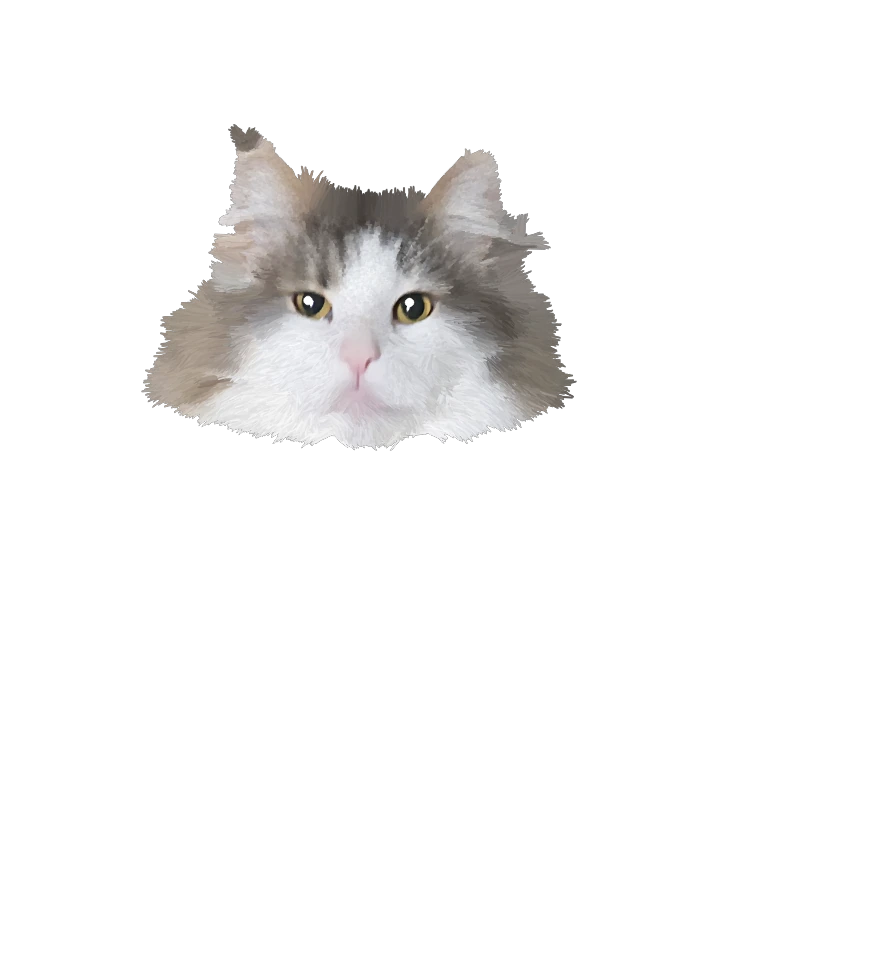
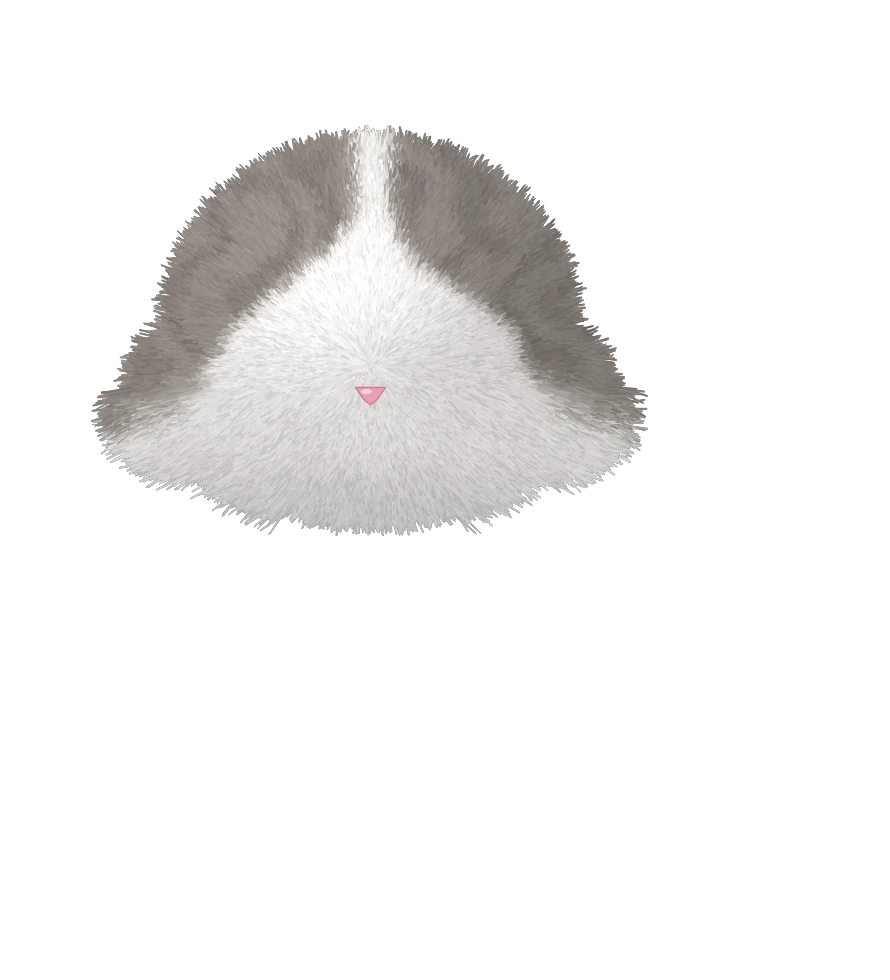
Playground: Ana redesigned from scratch as a 3D-shaded fine-fur character (round head, big amber eyes, tufted ears, plume tail)
Claude-Session: https://claude.ai/code/session_01W4x6f7KtFbhsBZfqVxHVQA

Changed region(s): [[0.091, 0.1224, 0.7281, 0.551]]

diff --git a/william/tpl.html b/william/tpl.html
@@ -712,18 +712,18 @@ XMLHttpRequest.prototype.open = function (m, url, ...rest) { for (const k in MOC
 })();
 // ---------- アナちゃん（試し中・playground だけ）----------
 // 細い毛を 1 本ずつ描いた一枚絵（william/ana/make_ana.py）を、頭・体・しっぽの部品に分けて動かす。William のモデル（Tororo）は使わない
-// 絵の座標（890×980）：足もと (370, 885)、首 (360, 440)、しっぽのつけ根 (560, 705)、目 (312, 306) (414, 308)、口 (360, 390)
+// 絵の座標（890×980）：足もと (370, 890)、首 (370, 480)、しっぽのつけ根 (560, 800)、耳のつけ根 (260, 240) (480, 240)、目 (296, 350) (444, 350)、鼻 (370, 395)
 // 性格は食いしん坊：正解すると ごはんがもらえて もぐもぐ。空のときは ときどき ぺろっ、「ごはん まだ？」
 const ANA = { img: {}, n: 0, blinkAt: 0, lookT: -1e9, lickT: -1e9, nextLick: 0, eatT: -1e9, food: 0, taps: 0, wantT: -1e9, nextWant: 0 };
-if (PLAYGROUND) for (const [k, src] of Object.entries(__ANA__)) { const im = new Image(); im.onload = () => { ANA.img[k] = im; if (++ANA.n === 3) { ANA.blinkAt = performance.now() + 3000; ANA.nextLick = performance.now() + 12000; } }; im.src = src; }
+if (PLAYGROUND) for (const [k, src] of Object.entries(__ANA__)) { const im = new Image(); im.onload = () => { ANA.img[k] = im; if (++ANA.n === 4) { ANA.blinkAt = performance.now() + 3000; ANA.nextLick = performance.now() + 12000; } }; im.src = src; }
 function anaFeed() { if (!PLAYGROUND) return; const t = performance.now(); if (t - ANA.eatT < 5200) { ANA.food = 1; return; } ANA.food = 1; ANA.eatT = t + 700; ANA.lookT = t; }
 function anaSpot() {
 	if (stacked) { const p = IMG_PL.top, q = M(p.x + 70, p.y); return { x: q.x, y: q.y }; }  // スマホ：同じ台の右どなり
 	const p = IMG_PL.floor, q = M(p.x - 20, p.y); return { x: q.x, y: q.y };               // PC：いちばん下の台
 }
-function anaH() { return catH * (stacked ? 1.0 : 1.2); }
+function anaH() { return catH * (stacked ? 1.0 : 1.25); }
 function drawAna(t) {
-	if (ANA.n < 3) return; const I = ANA.img, c = ctx, sp = anaSpot(), h = anaH(), k = h / 790;
+	if (ANA.n < 4) return; const I = ANA.img, c = ctx, sp = anaSpot(), h = anaH(), k = h / 850;
 	let lid = 0, mouth = 0, up = 0, dip = 0, lick = 0;
 	const bk = (t - ANA.blinkAt) / 240; if (bk >= 0 && bk < 1) lid = Math.max(lid, Math.sin(bk * Math.PI)); else if (bk >= 1) ANA.blinkAt = t + 3000 + Math.random() * 4000;
 	const lk = (t - ANA.lookT) / 1600; if (lk >= 0 && lk < 1) { up = Math.sin(lk * Math.PI); lid *= 1 - up; }
@@ -736,27 +736,38 @@ function drawAna(t) {
 	const br = reduce ? 0 : Math.sin(t / 1500), sway = reduce ? 0 : Math.sin(t / 4300), chew = reduce ? 0 : Math.abs(Math.sin(t / 95)) * dip, fast = dip > 0.1 || up > 0.1;
 	c.save(); c.translate(sp.x, sp.y);
 	c.fillStyle = 'rgba(60,30,40,.26)'; c.beginPath(); c.ellipse(h * 0.05, 2, h * 0.42, h * 0.04, 0, 0, Math.PI * 2); c.fill();
-	c.scale(k, k); c.translate(-370, -885);
+	c.scale(k, k); c.translate(-370, -890);
 	// しっぽ（つけ根を中心に ふる。ごはんのときは 速く）
-	c.save(); c.translate(560, 705); c.rotate(reduce ? 0 : Math.sin(t / (fast ? 240 : 1400)) * (fast ? 0.1 : 0.05)); c.drawImage(I.tail, -560, -705); c.restore();
+	c.save(); c.translate(560, 800); c.rotate(reduce ? 0 : Math.sin(t / (fast ? 240 : 1400)) * (fast ? 0.1 : 0.05)); c.drawImage(I.tail, -560, -800); c.restore();
 	// 体（足もとを中心に 呼吸で ふくらむ。食べるときは 少し前へ）
-	c.save(); c.translate(370, 885); c.scale(1 + br * 0.006, 1 + br * 0.01 - dip * 0.03); c.drawImage(I.body, -370, -885); c.restore();
-	// 頭（首を中心に かたむく・上を向く・おさらへ下げる）
-	c.save(); c.translate(360 - dip * 40, 440 - br * 3 - up * 10 + dip * 70 + chew * 5); c.rotate(sway * 0.035 - dip * 0.22); c.scale(1, 1 + up * 0.02); c.translate(-360, -440);
+	c.save(); c.translate(370, 890); c.scale(1 + br * 0.006, 1 + br * 0.01 - dip * 0.03); c.drawImage(I.body, -370, -890); c.restore();
+	// 頭（首を中心に かたむく・上を向く・おさらへ下げる）。耳は 頭のうしろで、つけ根を中心に ぴくっ
+	c.save(); c.translate(370 - dip * 60, 480 - br * 3 - up * 10 + dip * 80 + chew * 5); c.rotate(sway * 0.035 - dip * 0.24); c.scale(1, 1 + up * 0.02); c.translate(-370, -480);
+	{ const tw = (t % 6100) / 260, a1 = tw < 1 ? Math.sin(tw * Math.PI) : 0, tw2 = ((t + 2700) % 8300) / 260, a2 = tw2 < 1 ? Math.sin(tw2 * Math.PI) : 0;
+	  for (const [sx, px, py, a] of [[-1, 260, 240, a1], [1, 480, 240, a2]]) { c.save(); c.translate(px, py); c.rotate(sx * (a * 0.16 + dip * 0.14 - up * 0.07)); c.translate(-px, -py); c.beginPath(); c.rect(sx < 0 ? -200 : 370, -200, 570, 1200); c.clip(); c.drawImage(I.ears, 0, 0); c.restore(); } }
 	c.drawImage(I.head, 0, 0);
-	// 目は 絵（写真の形）のまま。まばたきは まぶたを上から下ろす（まわりの毛の色）
-	if (lid > 0.03) for (const [ex, ey] of [[312, 306], [414, 308]]) {
-		c.save(); c.translate(ex, ey); c.beginPath(); c.ellipse(0, 0, 27, 21, 0, 0, Math.PI * 2); c.clip();
-		const ly = -21 + lid * 42; c.fillStyle = '#e6e2de'; c.fillRect(-28, -22, 56, ly + 22); c.strokeStyle = '#6a5f58'; c.lineWidth = 2.2; c.beginPath(); c.moveTo(-28, ly - 3); c.quadraticCurveTo(0, ly + 4, 28, ly - 3); c.stroke(); c.restore();
+	// 目：大きく まるい こはく色の目（顔の下より・はなして置く＝かわいい顔）。ふだんは 上まぶたが少し下りた おっとりした目
+	for (const [sx, ex, ey] of [[-1, 296, 350], [1, 444, 350]]) {
+		c.save(); c.translate(ex, ey); c.rotate(sx * -0.06);
+		const shape = () => { c.beginPath(); c.ellipse(0, 0, 36, 33, 0, 0, Math.PI * 2); };
+		shape(); c.lineWidth = 6; c.strokeStyle = '#3b312c'; c.stroke(); c.save(); shape(); c.clip();
+		const g = c.createRadialGradient(0, 4, 4, 0, 0, 36); g.addColorStop(0, '#c9cc66'); g.addColorStop(0.5, '#e0b744'); g.addColorStop(1, '#b07a1e'); c.fillStyle = g; c.fillRect(-40, -38, 80, 76);
+		c.fillStyle = '#17120f'; c.beginPath(); c.ellipse(0, 1, 15 + up * 5, 24, 0, 0, Math.PI * 2); c.fill();
+		c.fillStyle = 'rgba(255,255,255,.95)'; c.beginPath(); c.arc(-10, -11, 7.5, 0, Math.PI * 2); c.fill(); c.beginPath(); c.arc(9, 12, 3.2, 0, Math.PI * 2); c.fill();
+		const ly = -36 + Math.max(lid, 0.16 * (1 - up)) * 72; c.fillStyle = '#a8a39f'; c.fillRect(-40, -40, 80, ly + 40); c.strokeStyle = '#3b312c'; c.lineWidth = 4; c.beginPath(); c.moveTo(-40, ly - 3); c.quadraticCurveTo(0, ly + 5, 40, ly - 3); c.stroke();
+		c.restore(); c.restore();
 	}
-	if (mouth > 0.08) { c.fillStyle = '#8a3a48'; c.beginPath(); c.ellipse(360, 396 + mouth * 5, 9 + mouth * 4, 2 + mouth * 9, 0, 0, Math.PI * 2); c.fill(); c.fillStyle = '#ee9aa6'; c.beginPath(); c.ellipse(360, 400 + mouth * 9, 6, 1 + mouth * 4, 0, 0, Math.PI * 2); c.fill(); }
-	else if (lick > 0.05) { c.fillStyle = '#ee9aa6'; c.strokeStyle = '#d27a88'; c.lineWidth = 1; c.beginPath(); c.moveTo(353, 392); c.quadraticCurveTo(351, 392 + lick * 16, 360, 393 + lick * 18); c.quadraticCurveTo(369, 392 + lick * 16, 367, 392); c.closePath(); c.fill(); c.stroke(); }
+	// 口：ω の形。食べるときは あけて もぐもぐ、ぺろっ は 小さい舌
+	c.strokeStyle = '#8e7480'; c.lineWidth = 2.6; c.lineCap = 'round';
+	if (mouth > 0.08) { c.fillStyle = '#8a3a48'; c.beginPath(); c.ellipse(370, 424 + mouth * 5, 11 + mouth * 5, 3 + mouth * 11, 0, 0, Math.PI * 2); c.fill(); c.fillStyle = '#ee9aa6'; c.beginPath(); c.ellipse(370, 430 + mouth * 9, 7, 2 + mouth * 5, 0, 0, Math.PI * 2); c.fill(); }
+	else { c.beginPath(); c.moveTo(370, 404); c.lineTo(370, 414); c.quadraticCurveTo(360, 428, 346, 419); c.moveTo(370, 414); c.quadraticCurveTo(380, 428, 394, 419); c.stroke();
+		if (lick > 0.05) { c.fillStyle = '#ee9aa6'; c.strokeStyle = '#d27a88'; c.lineWidth = 1.2; c.beginPath(); c.moveTo(362, 420); c.quadraticCurveTo(360, 420 + lick * 20, 370, 421 + lick * 22); c.quadraticCurveTo(380, 420 + lick * 20, 378, 420); c.closePath(); c.fill(); c.stroke(); } }
 	// ひげ
-	c.strokeStyle = 'rgba(255,255,255,.8)'; c.lineWidth = 1.1; c.lineCap = 'round';
-	for (const sx of [-1, 1]) for (let i = 0; i < 4; i++) { c.beginPath(); c.moveTo(360 + sx * 36, 372 + i * 5); c.quadraticCurveTo(360 + sx * 120, 362 + i * 12, 360 + sx * (205 + i * 6), 352 + i * 24); c.stroke(); }
+	c.strokeStyle = 'rgba(255,255,255,.9)'; c.lineWidth = 1.4; c.lineCap = 'round';
+	for (const sx of [-1, 1]) for (let i = 0; i < 4; i++) { c.beginPath(); c.moveTo(370 + sx * 48, 408 + i * 6); c.quadraticCurveTo(370 + sx * 150, 396 + i * 14, 370 + sx * (250 + i * 8), 386 + i * 28); c.stroke(); }
 	c.restore();
 	// ごはんのおさら（体の左まえ）
-	{ const bx = 0, by = 0; c.save(); c.translate(120, 868); c.scale(1.9, 1.9); c.fillStyle = '#d9c7b0'; c.beginPath(); c.ellipse(bx, by + 6, 46, 11, 0, 0, Math.PI * 2); c.fill();
+	{ const bx = 0, by = 0; c.save(); c.translate(70, 872); c.scale(1.9, 1.9); c.fillStyle = '#d9c7b0'; c.beginPath(); c.ellipse(bx, by + 6, 46, 11, 0, 0, Math.PI * 2); c.fill();
 	  c.fillStyle = '#f4ead9'; c.beginPath(); c.moveTo(bx - 46, by - 4); c.quadraticCurveTo(bx - 40, by + 16, bx, by + 16); c.quadraticCurveTo(bx + 40, by + 16, bx + 46, by - 4); c.closePath(); c.fill();
 	  c.fillStyle = '#e3d3bb'; c.beginPath(); c.ellipse(bx, by - 4, 46, 10, 0, 0, Math.PI * 2); c.fill();
 	  if (ANA.food > 0.02) { c.save(); c.beginPath(); c.ellipse(bx, by - 4, 42, 8.5, 0, 0, Math.PI * 2); c.clip(); const n = Math.ceil(26 * ANA.food); for (let i = 0; i < n; i++) { const a = i * 2.39996, r = Math.sqrt((i + 0.5) / 26); c.fillStyle = i % 3 ? '#a86f3e' : '#8f5a30'; c.beginPath(); c.ellipse(bx + Math.cos(a) * r * 38, by - 5 + Math.sin(a) * r * 7 - ANA.food * 3, 5.5, 4, 0, 0, Math.PI * 2); c.fill(); } c.restore(); }
@@ -764,7 +775,7 @@ function drawAna(t) {
 	const wk = (t - ANA.wantT) / 3200; if (wk >= 0 && wk < 1) { const a = Math.min(1, wk * 6, (1 - wk) * 6); c.globalAlpha = a; c.fillStyle = 'rgba(255,255,255,.95)'; c.strokeStyle = '#2b2522'; c.lineWidth = 4; const bx = 470, by = 70; c.beginPath(); c.ellipse(bx, by, 150, 50, 0, 0, Math.PI * 2); c.fill(); c.stroke(); c.beginPath(); c.arc(bx - 60, by + 66, 11, 0, Math.PI * 2); c.fill(); c.stroke(); c.fillStyle = '#2b2522'; c.font = '500 40px "Kiwi Maru", sans-serif'; c.textAlign = 'center'; c.textBaseline = 'middle'; c.fillText('ごはん まだ？', bx, by + 2); c.globalAlpha = 1; }
 	c.restore();
 }
-function anaBox() { if (ANA.n < 3) return null; const sp = anaSpot(), h = anaH(); return { x: sp.x - h * 0.42, y: sp.y - h, w: h * 0.84, h }; }
+function anaBox() { if (ANA.n < 4) return null; const sp = anaSpot(), h = anaH(); return { x: sp.x - h * 0.42, y: sp.y - h, w: h * 0.84, h }; }
 W2D.motion = (g, i) => { const m = W2D.model; if (!m) return; const n = (m.internalModel.settings.motions[g] || []).length; if (n) m.motion(g, i ?? Math.floor(Math.random() * n), 3); };
 function applyParams(c) {
 	const P = W2D.P; if (!P) return;

diff --git a/william/ana/make_ana.py b/william/ana/make_ana.py
@@ -1,106 +1,150 @@
-# アナちゃんの一枚絵（細い毛で描いたイラスト）を作り、頭・体・しっぽの部品に分ける
-# 使い方: python3 william/ana/make_ana.py <切り抜いた写真 cut.png（正面で座っている写真、1620×1800、背景は透明）>
-#   出力: william/assets/ana_body.webp / ana_head.webp / ana_tail.webp（どれも 890×980、同じ座標）
-# 考え方（似せるために）：
-#   - 顔の形・模様の位置・目・鼻・口・耳は 写真の形を そのまま使う（作り物に置きかえない）。軽く なめらかにして 絵らしくするだけ
-#   - 毛は、写真から「その場所の毛の向き」を読み取り（明るさの変化の向き）、その向きに 先の細い毛を 1 本ずつ重ねて描く。色は その場所の写真の色
-#   - 毛は輪郭の外へ少し はみ出すので、ふちは 長毛種らしい毛先になる
+# アナちゃんのキャラクター絵を 0 から描く（写真の輪郭は使わない）。出力：william/assets/ana_{tail,body,ears,head}.webp（890×980、同じ座標）
+# 使い方: python3 william/ana/make_ana.py [プレビューを書くフォルダ]
+# 設計：
+#   - 形は 立体（だ円体の組み合わせ）として作る：まるい頭＋ほおの毛、洋なし形の体、まるい足先、羽のようなしっぽ、大きな耳
+#   - 光は 左上から。立体の向き（法線）で 明るさを決め、あごの下・体の下・右がわに 影を落とす
+#   - 毛は 先の細い毛を 1 本ずつ、立体の表面にそって（顔は鼻から外へ、胸は首から下へ）重ねる。ふちは 毛先が はみ出して ふわふわになる
+#   - かわいさ：頭を大きく、目は 顔の下より・大きく・はなして、鼻と口は 小さく まん中に
+#   - アナちゃんらしさ：灰色は 耳・ひたいの両がわ・目の外がわ・体の両わき・しっぽ。ひたいの白い筋が 口元へ広がる。胸は 白い長い毛
 import sys, os, math
 import numpy as np, cv2
 HERE = os.path.dirname(os.path.abspath(__file__)); ROOT = os.path.dirname(os.path.dirname(HERE))
-SC = 0.5; PAD = 40
-rng = np.random.RandomState(11)
-src = cv2.imread(sys.argv[1], cv2.IMREAD_UNCHANGED)
-src = cv2.resize(src, None, fx=SC, fy=SC, interpolation=cv2.INTER_AREA)
-src = cv2.copyMakeBorder(src, PAD, PAD, PAD, PAD, cv2.BORDER_CONSTANT, value=(0, 0, 0, 0))
-H, W = src.shape[:2]
-P = lambda x, y: (x * SC + PAD, y * SC + PAD)
+W, H = 890, 980; CX = 370
+rng = np.random.RandomState(5)
 yy, xx = np.mgrid[0:H, 0:W].astype(np.float32)
-NX, NY = P(640, 640)
-# --- 形（右の床の影を落とす） ---
-a = (src[..., 3] > 170).astype(np.uint8); a[:, int(P(1215, 0)[0]):] = 0
-n, lab, st, _ = cv2.connectedComponentsWithStats(a); a = (lab == 1 + np.argmax(st[1:, cv2.CC_STAT_AREA])).astype(np.uint8)
-a = cv2.morphologyEx(a, cv2.MORPH_OPEN, np.ones((5, 5), np.uint8))
-# --- 色：写真を 軽く なめらかにして 明るくする（模様や影は残す） ---
-ae = cv2.erode(a, np.ones((9, 9), np.uint8))
-raw = cv2.inpaint(src[..., :3], (1 - ae) * 255, 5, cv2.INPAINT_TELEA)
-col = cv2.edgePreservingFilter(raw, flags=1, sigma_s=10, sigma_r=0.18).astype(np.float32)
-col = 255 * (col / 255) ** 0.78 * 1.05
-hsv = cv2.cvtColor(col.clip(0, 255).astype(np.uint8), cv2.COLOR_BGR2HSV).astype(np.float32); hsv[..., 1] *= 1.12
-col = cv2.cvtColor(hsv.clip(0, 255).astype(np.uint8), cv2.COLOR_HSV2BGR).astype(np.float32)
-# --- 毛の向き：写真の明るさの変化から（構造テンソル）。向きの表裏は「鼻から外へ・上から下へ」に そろえる ---
-g = cv2.GaussianBlur(cv2.cvtColor(raw, cv2.COLOR_BGR2GRAY).astype(np.float32), (0, 0), 1.2)
-gx, gy = cv2.Sobel(g, cv2.CV_32F, 1, 0, ksize=3), cv2.Sobel(g, cv2.CV_32F, 0, 1, ksize=3)
-J11, J22, J12 = (cv2.GaussianBlur(v, (0, 0), 5) for v in (gx * gx, gy * gy, gx * gy))
-th = 0.5 * np.arctan2(2 * J12, J11 - J22) + np.pi / 2                    # 毛の向き（変化の向きと直角）
-coh = np.sqrt((J11 - J22) ** 2 + 4 * J12 ** 2) / (J11 + J22 + 1e-3)      # 向きの はっきり度 0〜1
-chin = P(0, 790)[1] - 45 * ((xx - NX) / 180) ** 2
-inhead = yy < chin
-pfx = np.where(inhead, xx - NX, (xx - NX) / 380.0); pfy = np.where(inhead, (yy - (NY - 20)) * 0.9 - 4, 1.0)
-cheek = inhead & (yy > NY - 10) & (np.abs(xx - NX) > 60); pfx = np.where(cheek, (xx - NX) * 0.012, pfx); pfy = np.where(cheek, 1.0, pfy)
-pn = np.hypot(pfx, pfy) + 1e-6; pfx, pfy = pfx / pn, pfy / pn
-vx, vy = np.cos(th), np.sin(th); flip = (vx * pfx + vy * pfy) < 0; vx, vy = np.where(flip, -vx, vx), np.where(flip, -vy, vy)
-k = np.clip(coh * 1.6, 0, 1) * 0.75                                       # はっきりしない所は きめた向きを多めに
-FX, FY = vx * k + pfx * (1 - k), vy * k + pfy * (1 - k)
-# --- 部品：頭（耳もふくむ）と 体 ---
-head_m = (a > 0) & inhead
-body_m = (a > 0) & (yy > chin - 34)
-# 顔の部品（目・鼻・口）は 写真の形のまま のせる（毛をかけない）
-feat = np.zeros((H, W), np.uint8)
-for (x, y, rx, ry) in [(545, 532, 56, 44), (748, 536, 56, 44), (640, 650, 50, 70)]:
-    cv2.ellipse(feat, tuple(int(v) for v in P(x, y)), (int(rx * SC), int(ry * SC)), 0, 0, 360, 255, -1)
-feat = cv2.GaussianBlur(feat, (0, 0), 5)
+WHITE = np.array([246, 248, 250], np.float32); GREY = np.array([138, 144, 152], np.float32); DARK = np.array([92, 96, 104], np.float32)   # BGR
+LIGHT = np.array([-0.38, -0.55, 0.74]); LIGHT /= np.linalg.norm(LIGHT)
 
-def paint(mask, n, length, width, color=None, flow=None):
-    out = np.zeros((H, W, 4), np.float32)
-    kk = cv2.GaussianBlur(mask.astype(np.float32), (0, 0), 1.2)[..., None]; C = col if color is None else color
-    out[..., :3] = C * kk; out[..., 3:] = kk
-    layer = (out * 255 / 255).clip(0, 255); rgb = np.ascontiguousarray(layer[..., :3].astype(np.uint8)); al = np.ascontiguousarray((layer[..., 3] * 255).clip(0, 255).astype(np.uint8))
+def solid(ells):
+    """だ円体の集まり → (中かどうか, 高さ, 法線)"""
+    h = np.zeros((H, W), np.float32)
+    for cx, cy, rx, ry, rz in ells:
+        d2 = ((xx - cx) / rx) ** 2 + ((yy - cy) / ry) ** 2
+        h = np.maximum(h, np.sqrt(np.clip(1 - d2, 0, 1)) * rz)
+    hs = cv2.GaussianBlur(h, (0, 0), 20)                                     # なめらかな ひとつの かたまりに（つなぎ目に 段を作らない）
+    gx, gy = cv2.Sobel(hs, cv2.CV_32F, 1, 0, ksize=5) / 48, cv2.Sobel(hs, cv2.CV_32F, 0, 1, ksize=5) / 48
+    n = np.dstack([-gx, -gy, np.ones_like(gx)]); n /= np.linalg.norm(n, axis=2, keepdims=True)
+    return h > 0, hs, n
+
+def shade(n, amb=0.83, k=0.2):
+    return (amb + k * np.clip(n @ LIGHT, 0, 1)).astype(np.float32)
+
+def noise(scale, seed):
+    r = np.random.RandomState(seed).rand(H // scale + 2, W // scale + 2).astype(np.float32)
+    return cv2.resize(r, (W, H), interpolation=cv2.INTER_CUBIC)
+
+def paint(mask, col, flow, n, length, width, order):
+    """mask の中に根もとをばらまき、flow の向きへ 先の細い毛を引く。order が大きい毛から先に描く（上の毛が かぶさる）"""
+    kk = cv2.GaussianBlur(mask.astype(np.float32), (0, 0), 1.0)
+    rgb = np.ascontiguousarray((col * kk[..., None]).clip(0, 255).astype(np.uint8)); al = np.ascontiguousarray((kk * 255).astype(np.uint8))
     ys, xs = np.where(mask); idx = rng.randint(0, len(xs), n); px, py = xs[idx], ys[idx]
-    for i in np.argsort(-(py + rng.rand(n) * 8)):                          # 下の毛から先に描く
+    FX, FY = flow; L0 = length if isinstance(length, np.ndarray) else np.full((H, W), length, np.float32)
+    for i in np.argsort(-(order[py, px] + rng.rand(n) * 8)):
         x, y = int(px[i]), int(py[i])
-        if feat[y, x] > 110: continue
-        fx, fy = (FX[y, x], FY[y, x]) if flow is None else flow(x, y)
-        ang = math.atan2(fy, fx) + (rng.rand() - 0.5) * 0.35
-        L = length(x, y) * (0.6 + rng.rand() * 0.8); w = width * (0.6 + rng.rand() * 0.7)
+        ang = math.atan2(FY[y, x], FX[y, x]) + (rng.rand() - 0.5) * 0.5
+        L = L0[y, x] * (0.55 + rng.rand() * 0.9); w = width * (0.6 + rng.rand() * 0.7)
         tx, ty = x + math.cos(ang) * L, y + math.sin(ang) * L
-        bend = (rng.rand() - 0.5) * 0.2 * L; mx, my = (x + tx) / 2 - math.sin(ang) * bend, (y + ty) / 2 + math.cos(ang) * bend
+        bend = (rng.rand() - 0.5) * 0.22 * L; mx, my = (x + tx) / 2 - math.sin(ang) * bend, (y + ty) / 2 + math.cos(ang) * bend
         nx, ny = -math.sin(ang) * w / 2, math.cos(ang) * w / 2
         pts = np.array([[x + nx, y + ny], [mx + nx * 0.6, my + ny * 0.6], [tx, ty], [mx - nx * 0.6, my - ny * 0.6], [x - nx, y - ny]]) * 8
-        c = C[y, x] * (1 + (rng.rand() - 0.5) * 0.09)                      # 1 本ごとに 明るさを少し変える
+        r = rng.rand(); c = col[y, x] * (1.05 if r > 0.78 else 0.93 if r < 0.2 else 1 + (rng.rand() - 0.5) * 0.05)   # 明るい毛・影の毛を まぜる
         cv2.fillConvexPoly(rgb, pts.astype(np.int32), tuple(float(v) for v in c.clip(0, 255)), cv2.LINE_AA, 3); cv2.fillConvexPoly(al, pts.astype(np.int32), 255, cv2.LINE_AA, 3)
     return np.dstack([rgb, al])
+
+def norm2(fx, fy):
+    m = np.hypot(fx, fy) + 1e-6; return fx / m, fy / m
+def lerp(a, b, k): return a * (1 - k[..., None]) + b * k[..., None]
+def ss(a, b, v): return np.clip((v - a) / (b - a), 0, 1) ** 2 * (3 - 2 * np.clip((v - a) / (b - a), 0, 1))
+
+n1, n2 = noise(26, 1), noise(9, 2)
+tabby = 0.5 + 0.5 * np.sin(xx * 0.11 + np.sin(yy * 0.045) * 2.4 + n1 * 5)                  # うすい しま
+grey_col = lerp(GREY[None, None], DARK[None, None], 0.5 * tabby ** 2 * (0.5 + n2 * 0.5))
+
+# ---------- 体（洋なし形。胸は前へ ふくらむ） ----------
+bm, bh, bn = solid([(CX, 560, 205, 185, 190), (CX, 705, 255, 170, 175), (CX, 500, 150, 120, 150)])
+edge = np.abs(xx - CX) + n1 * 26
+flank = ss(185, 235, edge + (yy - 560) * 0.06) * ss(500, 560, yy)                           # 両わきは灰色（下ほど広い）
+flank = np.maximum(flank, ss(150, 205, (xx - CX) + n1 * 22) * ss(540, 600, yy) * ss(820, 760, yy))   # 右がわは 少し広く
+bcol = lerp(np.zeros((H, W, 3), np.float32) + WHITE, grey_col, flank) * shade(bn)[..., None]
+bcol *= (1 - 0.07 * ss(0, 240, np.abs(xx - CX)) ** 2)[..., None]                               # 体の まるみ：はしへ行くほど 少し暗く
+bcol *= (1 - 0.16 * ss(560, 470, yy) * ss(210, 60, np.abs(xx - CX)))[..., None]              # あごの下の影
+bcol *= (1 - 0.10 * ss(770, 880, yy))[..., None]                                             # 体の下の影
+bflow = norm2((xx - CX) / 330.0, np.ones_like(xx))
+body = paint(bm, bcol, bflow, 80000, np.where(yy < 720, 40.0, 24.0).astype(np.float32), 1.9, yy)
+# 足先（まるい。体の毛の下から 出る）
+pm, ph, pn = solid([(302, 858, 60, 36, 40), (438, 858, 60, 36, 40)])
+pcol = (np.zeros((H, W, 3), np.float32) + WHITE) * shade(pn, 0.88, 0.14)[..., None]
+paws = paint(pm, pcol, norm2(np.where(xx < CX, xx - 302, xx - 438) * 0.02, np.ones_like(xx)), 9000, 9.0, 1.7, yy)
+pb = np.ascontiguousarray(paws[..., :3])
+for cx in (302, 438):
+    for dx in (-17, 0, 17): cv2.line(pb, (int((cx + dx) * 8), 866 * 8), (int((cx + dx * 1.1) * 8), 886 * 8), (196, 190, 200), 2, cv2.LINE_AA, 3)   # 指のあいだ
+paws[..., :3] = pb
+k = paws[..., 3:].astype(np.float32) / 255 * (1 - body[..., 3:].astype(np.float32) / 255 * (yy < 838)[..., None])
+body[..., :3] = (body[..., :3] * (1 - k) + paws[..., :3] * k).astype(np.uint8); body[..., 3] = np.maximum(body[..., 3], (k[..., 0] * 255).astype(np.uint8))
+
+# ---------- 頭（まるい頭＋ほおの毛） ----------
+HX, HY = CX, 330; MX, MY = CX, 395                                                           # 頭のまん中／鼻
+hm, hh, hn = solid([(HX, HY, 180, 165, 170), (238, 392, 86, 74, 80), (502, 392, 86, 74, 80), (HX, 425, 150, 84, 120)])
+du = np.abs(xx - HX) + (n1 - 0.5) * 18; v = yy
+blaze = 16 + 118 * ss(215, 372, v) ** 1.5                                                    # ひたいの白い筋：上は細く、目の高さで 目の内がわまで
+g = (du > blaze).astype(np.float32) * ss(398, 352, v - (du - 120) * 0.42)                    # 目より下は白。外がわほど 灰色が下まで
+g = cv2.GaussianBlur(np.clip(g, 0, 1), (0, 0), 5)
+hcol = lerp(np.zeros((H, W, 3), np.float32) + WHITE, grey_col, g) * shade(hn, 0.84, 0.19)[..., None]
+hcol *= (1 - 0.08 * ss(430, 500, yy) * (g < 0.5))[..., None]                                 # ほおの下は 少し影
+# 鼻すじ・口元の ふくらみ（マズル）を 少し明るく
+muz = np.exp(-(((xx - MX) / 62) ** 2 + ((yy - 412) / 40) ** 2)); hcol = np.clip(hcol * (1 + 0.05 * muz[..., None]), 0, 255)
+fx, fy = xx - MX, (yy - (MY - 30)) * 0.9; lowc = (yy > MY - 10) & (np.abs(xx - MX) > 70)
+fx, fy = np.where(lowc, (xx - MX) * 0.016, fx), np.where(lowc, 1.0, fy)
+hlen = (7 + np.clip(np.hypot(xx - MX, yy - MY) * 0.11, 0, 22)) * np.where(lowc, 1.6, 1.0)
+head = paint(hm, hcol, norm2(fx, fy), 62000, hlen.astype(np.float32), 1.6, np.hypot(xx - MX, (yy - MY) * 1.1) + np.where(yy > MY, (yy - MY) * 0.7, 0))
+hb = np.ascontiguousarray(head[..., :3])
+# 鼻（小さい ピンクの逆三角）
+nose = np.array([[MX - 15, MY - 8], [MX + 15, MY - 8], [MX + 6, MY + 5], [MX, MY + 9], [MX - 6, MY + 5]]) * 8
+cv2.fillPoly(hb, [nose.astype(np.int32)], (178, 160, 232), cv2.LINE_AA, 3); cv2.polylines(hb, [nose.astype(np.int32)], True, (150, 128, 200), 1, cv2.LINE_AA, 3)
+cv2.ellipse(hb, (int((MX - 4) * 8), int((MY - 4) * 8)), (5 * 8, 2 * 8), 0, 0, 360, (215, 205, 248), -1, cv2.LINE_AA, 3)
+head[..., :3] = hb
+
+# ---------- 耳（べつの部品。大きく、少し外向き。中は うすいピンクと 白い長い毛、先に 長い毛） ----------
+ears = np.zeros((H, W, 4), np.uint8); eb = np.ascontiguousarray(ears[..., :3]); ea = np.ascontiguousarray(ears[..., 3])
+for sx in (-1, 1):
+    X = lambda d: HX + sx * d
+    pts = np.array([[X(46), 236], [X(150), 56], [X(226), 290]], np.float32); tip = pts[1]; cen = pts.mean(axis=0)
+    cv2.fillPoly(eb, [(pts * 8).astype(np.int32)], (120, 126, 134), cv2.LINE_AA, 3); cv2.fillPoly(ea, [(pts * 8).astype(np.int32)], 255, cv2.LINE_AA, 3)
+    inner = cen + (pts - cen) * 0.66 + [0, 12]
+    cv2.fillPoly(eb, [(inner * 8).astype(np.int32)], (188, 180, 224), cv2.LINE_AA, 3)
+    for i in range(420):                                                                     # 外側の短い毛（ふちを やわらかく）
+        t = rng.rand(); q = (pts[0] if rng.rand() < 0.5 else pts[2]) * (1 - t) + tip * t; q = q + (cen - q) * rng.uniform(-0.03, 0.2)
+        L = rng.uniform(5, 12); ang = math.atan2(tip[1] - cen[1], tip[0] - cen[0]) + rng.uniform(-0.7, 0.7); gcol = rng.uniform(100, 150)
+        l2 = np.array([q, q + [math.cos(ang) * L, math.sin(ang) * L]]) * 8
+        cv2.line(eb, tuple(l2[0].astype(int)), tuple(l2[1].astype(int)), (gcol, gcol + 5, gcol + 12), 2, cv2.LINE_AA, 3); cv2.line(ea, tuple(l2[0].astype(int)), tuple(l2[1].astype(int)), 255, 2, cv2.LINE_AA, 3)
+    for i in range(14):                                                                      # 耳の先の長い毛
+        L = rng.uniform(18, 40); ang = math.radians(-90 + sx * rng.uniform(0, 26)); q = tip + rng.uniform(-2, 2, 2)
+        l2 = (np.array([q, q + [math.cos(ang) * L * 0.5 + sx * 2, math.sin(ang) * L * 0.5], q + [math.cos(ang) * L, math.sin(ang) * L]]) * 8).astype(np.int32)
+        cv2.polylines(eb, [l2], False, (84, 88, 96), 1, cv2.LINE_AA, 3); cv2.polylines(ea, [l2], False, 255, 1, cv2.LINE_AA, 3)
+    for i in range(80):                                                                      # 耳の中から 外へ流れる 白い長い毛
+        t = rng.uniform(0.1, 0.9); q = inner[0] * (1 - t) + inner[2] * t + [0, -rng.uniform(0, 40)]; L = rng.uniform(30, 78); ang = math.radians(-90 + sx * rng.uniform(8, 72))
+        l2 = (np.array([q, q + [math.cos(ang) * L * 0.5 + sx * 4, math.sin(ang) * L * 0.5], q + [math.cos(ang) * L, math.sin(ang) * L]]) * 8).astype(np.int32)
+        cv2.polylines(eb, [l2], False, (248, 250, 252), 1, cv2.LINE_AA, 3); cv2.polylines(ea, [l2], False, 255, 1, cv2.LINE_AA, 3)
+ears = np.dstack([eb, ea])
+
+# ---------- しっぽ（羽のよう。体の右うしろから 上へ） ----------
+tm = np.zeros((H, W), np.uint8); spine = []
+for s in np.linspace(0, 1, 220):
+    u = 1 - s; x = u * u * 560 + 2 * u * s * 760 + s * s * 700; y = u * u * 800 + 2 * u * s * 760 + s * s * 500
+    spine.append((x, y)); cv2.circle(tm, (int(x), int(y)), int(26 + 46 * math.sin(math.pi * min(1, 0.12 + s * 0.92)) ** 0.7), 1, -1)
+spine = np.array(spine, np.float32)
+d = (xx[..., None] - spine[None, None, ::6, 0]) ** 2 + (yy[..., None] - spine[None, None, ::6, 1]) ** 2
+ni = np.argmin(d, axis=2) * 6; sx_, sy_ = spine[ni, 0], spine[ni, 1]; nj = np.clip(ni + 6, 0, len(spine) - 1); tx_, ty_ = spine[nj, 0] - sx_, spine[nj, 1] - sy_
+rad = np.sqrt(d.min(axis=2)); core = np.clip(1 - rad / 70, 0, 1)
+tcol = lerp(DARK[None, None] * 0.92, GREY[None, None] * 1.02, ss(0.2, 1.0, core) * 0.7 + n2 * 0.25) * (0.86 + 0.2 * ss(60, 0, (xx - sx_) * 0.5 + (yy - sy_) * 0.7 + 30))[..., None]
+tail = paint(tm > 0, tcol, norm2(tx_ * 0.5 + (xx - sx_) * 1.5, ty_ * 0.5 + (yy - sy_) * 1.5), 26000, 34.0, 2.0, -rad)
 
 def save(img, name):
     from PIL import Image
     Image.fromarray(cv2.cvtColor(img, cv2.COLOR_BGRA2RGBA)).save(os.path.join(ROOT, 'william', 'assets', name), quality=92, method=6)
-
-body = paint(body_m, 90000, lambda x, y: 22 if y < P(0, 1400)[1] else 10, 1.9)
-EARY = P(0, 400)[1]
-head = paint(head_m, 60000, lambda x, y: 6 if y < EARY and abs(x - NX) > 55 else (7 + min(16, math.hypot(x - NX, y - NY) * 0.09)), 1.6)
-# 目・鼻・口：写真の形のまま。少し くっきりさせて、目に ハイライト
-sharp = cv2.addWeighted(col, 1.5, cv2.GaussianBlur(col, (0, 0), 3), -0.5, 0).clip(0, 255)
-kf = (feat.astype(np.float32) / 255)[..., None]
-head[..., :3] = (head[..., :3] * (1 - kf) + sharp * kf).astype(np.uint8)
-hb = np.ascontiguousarray(head[..., :3])
-for (x, y) in [(535, 520), (738, 524)]:
-    cv2.circle(hb, tuple(int(v * 8) for v in P(x, y)), 4 * 8, (255, 255, 255), -1, cv2.LINE_AA, 3)
-head[..., :3] = hb
-# しっぽ：写真では 体の右うしろに こい灰色の ふさふさ（写真では 影と重なって 切り抜けないので、しんの線にそって描く）
-tail_m = np.zeros((H, W), np.uint8); spine = []
-for s in np.linspace(0, 1, 200):
-    u = 1 - s; x = u * u * 1040 + 2 * u * s * 1330 + s * s * 1400; y = u * u * 1330 + 2 * u * s * 1300 + s * s * 880
-    spine.append(P(x, y)); cv2.circle(tail_m, tuple(int(v) for v in P(x, y)), int((38 + 70 * math.sin(math.pi * min(1, 0.15 + s * 0.9)) ** 0.7) * SC), 1, -1)
-spine = np.array(spine)
-tcol = np.zeros((H, W, 3), np.float32) + np.array([96, 100, 108], np.float32) + (rng.rand(H, W, 1).astype(np.float32) - 0.5) * 26
-def tail_flow(x, y):
-    i = int(np.argmin((spine[:, 0] - x) ** 2 + (spine[:, 1] - y) ** 2)); j = min(len(spine) - 1, i + 3); tx, ty = spine[j] - spine[max(0, i - 3)]
-    ox, oy = x - spine[i][0], y - spine[i][1]; return (tx * 0.6 + ox * 1.4, ty * 0.6 + oy * 1.4)
-tail = paint(tail_m > 0, 22000, lambda x, y: 30, 2.0, color=tcol, flow=tail_flow)
-save(body, 'ana_body.webp'); save(head, 'ana_head.webp'); save(tail, 'ana_tail.webp')
-comp = np.zeros((H, W, 4), np.float32)
-for im in (tail, body, head):
-    f = im.astype(np.float32); k2 = f[..., 3:] / 255; comp[..., :3] = comp[..., :3] * (1 - k2) + f[..., :3] * k2; comp[..., 3:] = np.maximum(comp[..., 3:], f[..., 3:])
-bgc = np.full((H, W, 3), (150, 170, 196), np.float32); k2 = comp[..., 3:] / 255
-cv2.imwrite(os.path.join(os.path.dirname(sys.argv[1]), 'ana_illust_preview.jpg'), (bgc * (1 - k2) + comp[..., :3] * k2).astype(np.uint8))
+for nm, im in (('tail', tail), ('body', body), ('ears', ears), ('head', head)): save(im, 'ana_%s.webp' % nm)
+if len(sys.argv) > 1:
+    comp = np.zeros((H, W, 3), np.float32) + (150, 170, 196)
+    for im in (tail, body, ears, head): f = im.astype(np.float32); k2 = f[..., 3:] / 255; comp = comp * (1 - k2) + f[..., :3] * k2
+    cv2.imwrite(os.path.join(sys.argv[1], 'ana_illust_preview.jpg'), comp.astype(np.uint8))
 print('ok')

diff --git a/william/build.py b/william/build.py
@@ -78,7 +78,7 @@ def main():
             '<style>body{margin:0}img{max-width:100%}[hidden]{display:none!important}</style>\n')
     out = head + s[:i] + '\n</head>\n<body>\n' + s[i:] + '\n</body>\n</html>\n'
     # playground.html：試し中の機能（アナちゃん）を入れたページ。本番（index.html）には出さない
-    open(os.path.join(ROOT, 'public', 'playground.html'), 'w', encoding='utf-8').write(out.replace('__PLAY__', 'true').replace('__ANA__', json.dumps({k: data_uri('ana_' + k + '.webp') for k in ('body', 'head', 'tail')})).replace('<title>', '<title>[playground] ', 1))
+    open(os.path.join(ROOT, 'public', 'playground.html'), 'w', encoding='utf-8').write(out.replace('__PLAY__', 'true').replace('__ANA__', json.dumps({k: data_uri('ana_' + k + '.webp') for k in ('body', 'head', 'tail', 'ears')})).replace('<title>', '<title>[playground] ', 1))
     out = out.replace('__PLAY__', 'false').replace('__ANA__', '{}')
     open(os.path.join(ROOT, 'public', 'index.html'), 'w', encoding='utf-8').write(out)
     print('public/index.html', len(out) // 1024, 'KB')

diff --git a/william/ana/README.md b/william/ana/README.md
@@ -2,18 +2,17 @@
 
 細い毛を 1 本ずつ描いた一枚絵を作り、頭・体・しっぽの部品に分けて動かす。William のモデル（Tororo）は使わない。
 
-- `make_ana.py`：正面で座っている写真（背景を消したもの）から「どこが どの色か」と「形」だけをもらい、先の細い毛を 約 12 万本、
-  毛の流れ（顔は鼻から外へ、ほおと体は上から下へ）にそって 下の毛から順に重ねて描く。色の面では塗らない。
-  出力は `william/assets/ana_body.webp` `ana_head.webp` `ana_tail.webp`（同じ座標の 3 枚）。
-- `tpl.html` の `drawAna`：3 枚を 首・足もと・しっぽのつけ根を中心に動かす（呼吸、頭のかたむき、まばたき、もぐもぐ、ぺろっ、しっぽ）。
-- 作り直し：`python3 william/ana/make_ana.py <切り抜いた写真>` → `npm run build`
+- `make_ana.py`：アナちゃんを 0 から描く（写真の輪郭は使わない）。
+  - 形は立体（だ円体の組み合わせ）：まるい頭＋ほおの毛、洋なし形の体、まるい足先、羽のようなしっぽ、大きな耳
+  - 光は左上から。立体の向きで明るさを決め、あごの下・体の下に影
+  - 毛は 先の細い毛を 1 本ずつ、表面にそって重ねる（色の面では塗らない）
+  - かわいさ：頭を大きく、目は顔の下より・大きく・はなして、鼻と口は小さく
+  - アナちゃんらしさ：灰色は 耳・ひたいの両がわ・目の外がわ・体のわき・しっぽ。ひたいの白い筋が口元へ広がる。胸は白い長い毛
+  - 出力は `william/assets/ana_{tail,body,ears,head}.webp`（同じ座標の 4 枚）
+- `tpl.html` の `drawAna`：4 枚を しっぽ → 体 → 耳 → 頭 の順に重ね、目・口・ひげを描いて動かす（呼吸、頭、耳、まばたき、もぐもぐ、ぺろっ、しっぽ）
+- 作り直し：`python3 william/ana/make_ana.py` → `npm run build`
+- 入れたスキル（`.claude/skills/`、リポジトリには入れない）：cli-anything-live2d（Live2D モデルの点検・編集用。絵から moc3 は作れない）、gimp / krita / inkscape / blender の CLI
 
 本式の Live2D（moc3）にする場合の工程（See-through で部品分け → PSD → Cubism Editor）は、GMO の記事を参照：
 https://recruit.group.gmo/engineer/jisedai/blog/see-through-x-kaggle-x-claude-code/
 
-## 似せるための方針（作り直して分かったこと）
-
-- 似ているかどうかは「顔の形・模様の位置・目つき」で決まる。ここを作り物（描いた目・作った耳・強くぼかした色）に置きかえると 別の猫になる
-- 目・鼻・口・耳・模様は 写真の形のまま使い、軽く なめらかにするだけ
-- 毛は 写真から「その場所の毛の向き」を読み取って、その向きに描く（きめた向きに描かない）
-- 部品は うしろから順に：しっぽ → 体 → 頭。まばたきは まぶたを上から下ろす
